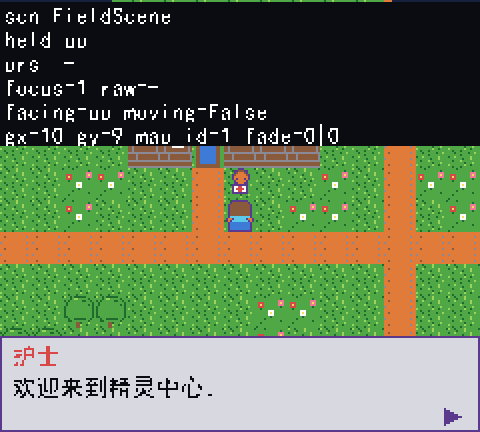
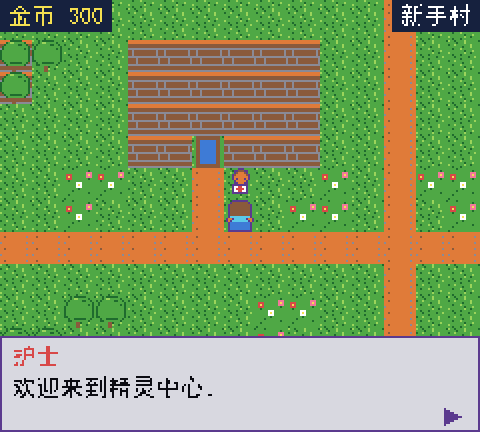
chore: 移除全部诊断代码，补充 README 已知限制
- input.py / game.py: 删除 --debug-input 覆盖层、运行日志、焦点监控、
  seen_count/raw_key_count 等诊断代码，恢复干净实现
- main.py: 去掉 --debug-input 开关，保留启动抢焦点（focus.grab_focus）
- README: 记录「中文输入法吞按键」限制（实测结论）、同进程不可重复
  pyxel.init、美术仍是占位；更新目录结构与按键说明（WASD + 方向键）

diff --git a/src/core/game.py b/src/core/game.py
@@ -14,40 +14,16 @@
 
 from __future__ import annotations
 
-import os
-import traceback
-
-import pyxel
-
 from src.assets_gen import sprite_base
-from src.core import focus
-from src.core.input import ACTIONS, Input, RealInput
+from src.core.input import Input, RealInput
 from src.core.scene_manager import SceneManager
 from src.data import map_data
 from src.scenes.title_scene import TitleScene
 from src.ui import text
 
 
-#: 运行日志路径（项目根/_runtime_log.txt）；`--debug-input` 时启用
-_LOG_PATH = os.path.join(
-    os.path.dirname(os.path.dirname(os.path.dirname(os.path.abspath(__file__)))),
-    "_runtime_log.txt",
-)
-
-
 class Game:
     """游戏主对象。"""
-
-    #: 运行日志文件句柄（None 表示未启用）
-    _log_file = None
-    #: 日志采样间隔（帧）
-    LOG_EVERY = 10
-    #: 自己维护的帧计数（headless 手动循环时 pyxel.frame_count 不推进）
-    _frame_no = 0
-    #: 上一帧的焦点状态（None = 还没测过）
-    _last_focus: bool | None = None
-    #: 上次尝试抢焦点的帧号
-    _last_refocus: int = -1000
 
     def __init__(self, input: Input | None = None):
         # 字体与素材必须先准备好，后面任何一帧绘制都要用
@@ -69,25 +45,7 @@ class Game:
             "facing": "down",
         }
 
-        if RealInput.DEBUG:
-            try:
-                self._log_file = open(_LOG_PATH, "w", encoding="utf-8")
-                self._log("=== 运行日志开始 ===")
-            except OSError:
-                self._log_file = None
-
         self.scenes.push(TitleScene(self))
-
-    # ------------------------------------------------------------ 运行日志
-    def _log(self, text: str) -> None:
-        """写一行运行日志并立刻落盘（进程被杀也能留下）。"""
-        if self._log_file is None:
-            return
-        try:
-            self._log_file.write(text + "\n")
-            self._log_file.flush()
-        except OSError:
-            self._log_file = None
 
     # ------------------------------------------------------------ 每帧
     def update(self) -> None:
@@ -98,109 +56,11 @@ class Game:
         """
         scene = self.scenes.current
         if scene is not None:
-            try:
-                scene.update(self.input)
-            except Exception:
-                # 把异常写进日志再抛出：PyCharm 控制台的输出可能看不到，
-                # 但日志文件一定留下完整 traceback。
-                self._log(f"!!! 场景 update 抛异常 (scene={type(scene).__name__})")
-                self._log(traceback.format_exc())
-                raise
+            scene.update(self.input)
         self.input.update()
-        self._frame_no += 1
-        self._watch_focus()
-        self._log_tick(scene)
-
-    def _watch_focus(self) -> None:
-        """监控窗口焦点：记录丢失事件，并在诊断模式下自动抢回。
-
-        窗口一旦不是前台窗口，SDL 就收不到键盘事件——画面照常、人物不走。
-        诊断模式（`RealInput.DEBUG`）下每 2 秒尝试抢回一次。
-        """
-        if not RealInput.DEBUG:
-            return
-        now = focus.is_focused()
-        if self._last_focus is None:
-            self._last_focus = now
-            self._log(f"FOCUS_INIT={int(now)}")
-            return
-        if now != self._last_focus:
-            self._log(f"FOCUS {'GAINED' if now else 'LOST'} at f={self._frame_no}")
-            self._last_focus = now
-        if not now and self._frame_no - self._last_refocus >= 60:
-            self._last_refocus = self._frame_no
-            ok = focus.grab_focus()
-            self._log(f"REFOCUS_TRY f={self._frame_no} ok={int(ok)}")
 
     def draw(self) -> None:
         """分发一帧绘制。"""
         scene = self.scenes.current
         if scene is not None:
             scene.draw()
-        if RealInput.DEBUG:
-            self._draw_debug_overlay()
-
-    def _log_tick(self, scene) -> None:
-        """每 LOG_EVERY 帧记录一次运行状态。"""
-        if self._log_file is None or self._frame_no % self.LOG_EVERY:
-            return
-        held = [a for a in ACTIONS if self.input.held(a)]
-        seen = getattr(self.input, "seen_count", "-")
-        parts = [
-            f"f={self._frame_no}",
-            f"scn={type(scene).__name__ if scene else 'None'}",
-            f"seen={seen}",
-            f"held={','.join(held) or '-'}",
-        ]
-        for attr in ("facing", "moving", "gx", "gy"):
-            if scene is not None and hasattr(scene, attr):
-                parts.append(f"{attr}={getattr(scene, attr)}")
-        fade = getattr(scene, "fade", None) if scene is not None else None
-        if fade is not None:
-            parts.append(f"fade={int(fade.is_active)}|{fade.level}")
-        parts.append(f"focus={int(focus.is_focused())}")
-        parts.append(f"raw={getattr(self.input, 'raw_key_count', '-')}")
-        self._log(" ".join(parts))
-
-    # ------------------------------------------------------------ 诊断
-    def _draw_debug_overlay(self) -> None:
-        """把输入与场景状态画在屏幕上（`--debug-input` 时启用）。
-
-        用来在不看终端的情况下判断：按键到底有没有被收到（held/prs 两行），
-        以及场景卡在什么状态（fade / moving / facing）。
-        """
-        held = [a for a in ACTIONS if self.input.held(a)]
-        pressed = [a for a in ACTIONS if self.input.pressed(a)]
-        cur = self.scenes.current
-        rows = [
-            f"scn {type(cur).__name__ if cur else 'None'}",
-            f"held {','.join(held) if held else '-'}",
-            f"prs  {','.join(pressed) if pressed else '-'}",
-        ]
-        if isinstance(self.input, RealInput):
-            last = self.input.last_action or "-"
-            rows.append(f"seen={self.input.seen_count} last={last}@{self.input.last_frame}")
-        rows.append(
-            f"focus={int(focus.is_focused())} raw={getattr(self.input, 'raw_key_count', '-')}"
-        )
-        head = []
-        for attr in ("facing", "moving"):
-            if cur is not None and hasattr(cur, attr):
-                head.append(f"{attr}={getattr(cur, attr)}")
-        tail = []
-        for attr in ("gx", "gy", "map_id"):
-            if cur is not None and hasattr(cur, attr):
-                tail.append(f"{attr}={getattr(cur, attr)}")
-        fade = getattr(cur, "fade", None) if cur is not None else None
-        if fade is not None:
-            tail.append(f"fade={int(fade.is_active)}|{fade.level}")
-        if head:
-            rows.append(" ".join(head))
-        if tail:
-            rows.append(" ".join(tail))
-
-        y = 2
-        for row in rows:
-            pyxel.rect(0, y - 1, 240, 12, 0)
-            text.draw(2, y, row, 7)
-            y += 12

diff --git a/src/core/input.py b/src/core/input.py
@@ -79,68 +79,15 @@ class Input:
 class RealInput(Input):
     """真实键盘输入。
 
-    `RealInput.DEBUG = True`（或 `main.py --debug-input`）时，每帧把「按住的
-    动作集合」与上一帧比较，发生变化就打印一行。用来区分「按键根本没被 Pyxel
-    收到（窗口没焦点 / 环境问题）」与「收到了但游戏逻辑没响应（代码问题）」。
+    **注意**：中文输入法（IME）开启时会吞掉按键，表现为「画面正常但人物不走」。
+    游玩前请切到英文输入法。详见 README「已知限制」。
     """
 
-    #: 打开后每帧打印按键状态变化（诊断用）
-    #: 临时默认开启，用于排查"地图上不能移动"；定位完成后改回 False。
-    DEBUG = True
-
-    def __init__(self) -> None:
-        self._dbg_last: frozenset[str] = frozenset()
-        #: 上一帧 / 本帧由 pyxel.input_keys 读到的原始键码（btn() 失效时的备用通道）
-        self._prev_keys: frozenset[int] = frozenset()
-        self._cur_keys: frozenset[int] = frozenset()
-        #: 本帧 input_keys 的原始长度（诊断用）
-        self.raw_key_count: int = 0
-        #: 启动至今累计收到过多少次「新按下」的动作（松手后不会清零）
-        self.seen_count: int = 0
-        #: 最近一次收到的动作名
-        self.last_action: str = ""
-        #: 最近一次收到动作时的 pyxel 帧号
-        self.last_frame: int = -1
-
-    @staticmethod
-    def _read_raw_keys() -> frozenset[int]:
-        """读 pyxel.input_keys（本帧原始键码）。失败返回空集合。"""
-        try:
-            return frozenset(int(k) for k in pyxel.input_keys)
-        except Exception:
-            return frozenset()
-
-    def update(self) -> None:
-        self._prev_keys = self._cur_keys
-        self._cur_keys = self._read_raw_keys()
-        self.raw_key_count = len(self._cur_keys)
-        current = frozenset(a for a in ACTIONS if self.held(a))
-        fresh = current - self._dbg_last
-        if fresh:
-            self.seen_count += len(fresh)
-            self.last_action = sorted(fresh)[-1]
-            self.last_frame = pyxel.frame_count
-        if RealInput.DEBUG and current != self._dbg_last:
-            print(f"[input] frame={pyxel.frame_count} held={sorted(current)}")
-        self._dbg_last = current
-
     def held(self, action: str) -> bool:
-        """动作是否按住。
-
-        主通道 `pyxel.btn()`；若它失效（SDL 有焦点但收不到键，实测出现过），
-        退回 `pyxel.input_keys` 这条原始键码通道。
-        """
-        keys = keys_of(action)
-        if any(pyxel.btn(k) for k in keys):
-            return True
-        return any(k in self._cur_keys for k in keys)
+        return any(pyxel.btn(k) for k in keys_of(action))
 
     def pressed(self, action: str) -> bool:
-        """动作是否本帧刚按下（边沿）。同样有 `input_keys` 备用通道。"""
-        keys = keys_of(action)
-        if any(pyxel.btnp(k) for k in keys):
-            return True
-        return any(k in self._cur_keys and k not in self._prev_keys for k in keys)
+        return any(pyxel.btnp(k) for k in keys_of(action))
 
 
 class _Segment:

diff --git a/main.py b/main.py
@@ -9,14 +9,8 @@ r"""精灵对战小游戏 —— 程序入口。
     E:\小说2\精灵对战小游戏\.venv\Scripts\python.exe main.py --headless --frames 10 ^
         --shot docs/shots/batch1_title.png
 
-输入诊断（排查"按键没反应"是环境问题还是代码问题）：
-
-    E:\小说2\精灵对战小游戏\.venv\Scripts\python.exe main.py --debug-input
-
-    开启后每帧打印一次按键状态变化，例如按 D 应看到：
-        [input] frame=42 held=['right']
-    若按了键却完全没有这行输出，说明 Pyxel 根本没收到键盘事件
-    （窗口没拿到焦点 / 有旧窗口占着键盘），与游戏代码无关。
+**注意**：中文输入法（IME）开启时会吞掉键盘事件——画面正常刷新但人物
+不走。游玩前请切到英文输入法（Shift 或 Win+Space）。详见 README「已知限制」。
 
 分辨率固定 240x216，帧率固定 30。
 """
@@ -34,7 +28,6 @@ import pyxel  # noqa: E402
 from src.assets_gen import palette  # noqa: E402
 from src.core import focus  # noqa: E402
 from src.core.game import Game  # noqa: E402
-from src.core.input import RealInput  # noqa: E402
 from src.ui import text  # noqa: E402
 
 #: 画面尺寸（锁定）
@@ -61,15 +54,6 @@ def _parse_args(argv: list[str]) -> tuple[bool, int, str | None]:
 def main(argv: list[str] | None = None) -> None:
     argv = list(sys.argv[1:] if argv is None else argv)
     headless, frames, shot = _parse_args(argv)
-
-    # 0) 输入诊断开关（放在 init 之前无副作用，只是置一个类属性）
-    if "--debug-input" in argv:
-        RealInput.DEBUG = True
-        print(
-            "[main] 输入诊断已开启：按 W/A/S/D 或方向键时，"
-            "应看到 [input] held=[...] 输出",
-            flush=True,
-        )
 
     # 1) 初始化 Pyxel（分辨率 / 帧率锁定）
     pyxel.init(SCREEN_WIDTH, SCREEN_HEIGHT, title=TITLE, fps=FPS, headless=headless)

diff --git a/README.md b/README.md
@@ -4,7 +4,9 @@
 
 **探索地图 → 遭遇野生精灵 → 战斗 / 捕捉 → 治疗与养成 → 商店补给 → 继续探索**
 
-当前进度：**批 1 —— 项目地基**（只搭工程框架与占位素材，战斗 / 背包 / 存档等玩法尚未实现）。
+当前进度：**批 1 完成（M0 脚手架 + M1 地图探索）**。
+可玩内容：标题画面 → 新手村四向行走 / 碰撞 / 摄像机跟随 / NPC 对话 / 地图传送。
+战斗、捕捉、背包、商店、存档**尚未实现**（后续批次）。
 
 ---
 
@@ -53,12 +55,17 @@ E:\小说2\精灵对战小游戏\.venv\Scripts\python.exe -m unittest discover -
 │   ├── core/
 │   │   ├── game.py              # App 主类：update/draw 分发到当前场景
 │   │   ├── scene_manager.py     # 场景栈（push / pop / replace）
-│   │   └── input.py             # 输入抽象（RealInput / FakeInput）
+│   │   ├── input.py             # 输入抽象（RealInput / FakeInput）
+│   │   └── focus.py             # 启动时把窗口抢到前台（Windows）
+│   ├── data/
+│   │   └── map_data.py          # 地图数据（新手村 / 野外）+ 可走性与传送查询
 │   ├── scenes/
 │   │   ├── scene_base.py        # 场景基类（enter/resume/exit/update/draw）
-│   │   └── title_scene.py       # 标题画面（新游戏 / 继续游戏）
+│   │   ├── title_scene.py       # 标题画面（新游戏 / 继续游戏）
+│   │   └── field_scene.py       # 地图探索：移动 / 碰撞 / 摄像机 / NPC 对话 / 传送
 │   ├── ui/
-│   │   └── text.py              # 中文文本渲染封装（字体路径只在这里）
+│   │   ├── text.py              # 中文文本渲染封装（字体路径只在这里）
+│   │   └── transition.py        # 淡入淡出（Bayer 抖动，地图与战斗转场复用）
 │   └── assets_gen/              # 程序化素材（规划文档 `9 方案 D）
 │       ├── palette.py           # 全局唯一配色来源 + 属性→主色表
 │       ├── sprite_base.py       # 字符画烘焙器 + 绘图辅助画布
@@ -66,12 +73,21 @@ E:\小说2\精灵对战小游戏\.venv\Scripts\python.exe -m unittest discover -
 │           ├── tileset.py               # 10 种 16x16 图块
 │           ├── player.py                # 主角 4 方向 x 2 帧
 │           └── creature_placeholder.py  # 8 只精灵占位图（战斗 32x32 + 图标 16x16）
-└── tests/
+└── tests/                     # 共 114 个用例（标准库 unittest）
     ├── helpers.py               # 无窗口跑帧 / 截图 / 假输入工具
-    ├── test_text.py
-    ├── test_sprite.py
-    ├── test_scene_manager.py
-    └── test_title_shot.py
+    ├── field_helpers.py         # FieldScene 专用测试辅助
+    ├── test_text.py             # 字体 / 宽度 / 折行
+    ├── test_sprite.py           # 字符画烘焙
+    ├── test_scene_manager.py    # 场景栈语义
+    ├── test_title_shot.py       # 标题画面与截图
+    ├── test_title_flow.py       # 新游戏 -> FieldScene
+    ├── test_input_keys.py       # WASD + 方向键映射
+    ├── test_map_data.py         # 地图尺寸 / 图块 / 传送有效性
+    ├── test_field_movement.py   # 每格 10 帧 / 撞墙 / 越界
+    ├── test_camera.py           # 摄像机夹取与居中
+    ├── test_portal.py           # 传送
+    ├── test_field_npc.py        # NPC 对话
+    └── test_field_shot.py       # 地图截图
 ```
 
 ## 5. 关键约定（后续批次照此写）
@@ -124,7 +140,8 @@ pyxel.blt(x, y, img, 0, 0, 16, 16, colkey=0)
 ### 5.4 输入
 
 - 动作只有 7 个：`up / down / left / right / confirm / cancel / menu`。
-- 按键：方向键；confirm = Z / K / Enter；cancel = X / J / Backspace；menu = C。
+- 按键：**移动 = W/A/S/D 或方向键（两种都支持）**；confirm = Z / K / Enter；
+  cancel = X / J / Backspace；menu = C。
 - **Esc 不做功能键**（保持 Pyxel 默认退出键）。
 - `Input.held(action)` = 持续按住；`Input.pressed(action)` = 本帧边沿。
 - 测试用 `FakeInput(script=[{"confirm": 3}])`：脚本是**段列表**，
@@ -143,5 +160,30 @@ pyxel.blt(x, y, img, 0, 0, 16, 16, colkey=0)
 **已做**：工程骨架、输入抽象、场景栈、标题画面、中文文本模块、调色板、
 图块 / 主角 / 精灵占位素材、单元测试与截图自检。
 
-**没做（后续批次）**：地图行走、遇敌、战斗、捕捉、背包、商店、存档、音效。
+**批 1 已补**：地图数据（新手村 30x20 / 野外 40x30）、四向网格移动（每格 10 帧插值）、
+碰撞、摄像机跟随与边界夹取、NPC 对话、地图传送、淡入淡出转场。
+
+**没做（后续批次）**：遇敌、战斗、捕捉、背包、商店、存档、音效、正式美术。
 `docs/数值设定.md` 是全部数值的唯一权威来源，实现时以它为准。
+
+---
+
+## 7. 已知限制
+
+### 7.1 中文输入法会吞掉按键（重要）
+
+**开启中文输入法（IME）时，游戏收不到键盘事件**：画面正常刷新，但人物不走、菜单不响应。
+这是 Windows + SDL 层面的行为，不是游戏 bug（实测：窗口焦点正常 `focus=1`、游戏循环正常、
+无任何异常，但 `pyxel.btn()` 恒为 False）。
+
+**解决办法：游玩前把输入法切到英文**（`Shift` 或 `Win+Space`）。
+
+### 7.2 同一进程内不能重复 `pyxel.init()`
+
+Pyxel 2.9.9 的 Rust 内核在第二次 `pyxel.init()` 时会 panic（`Pyxel already initialized`）。
+所以**不要用 PyCharm 的 Python 控制台反复重跑**，用 Run 按钮（每次全新进程）或命令行。
+
+### 7.3 美术是占位素材
+
+当前精灵 / 图块 / 主角都是程序化生成的占位图（能分辨但不好看）。
+其中树的树冠与草地同色（都是色 4），辨识度最低。正式美术在批 4 重画。
